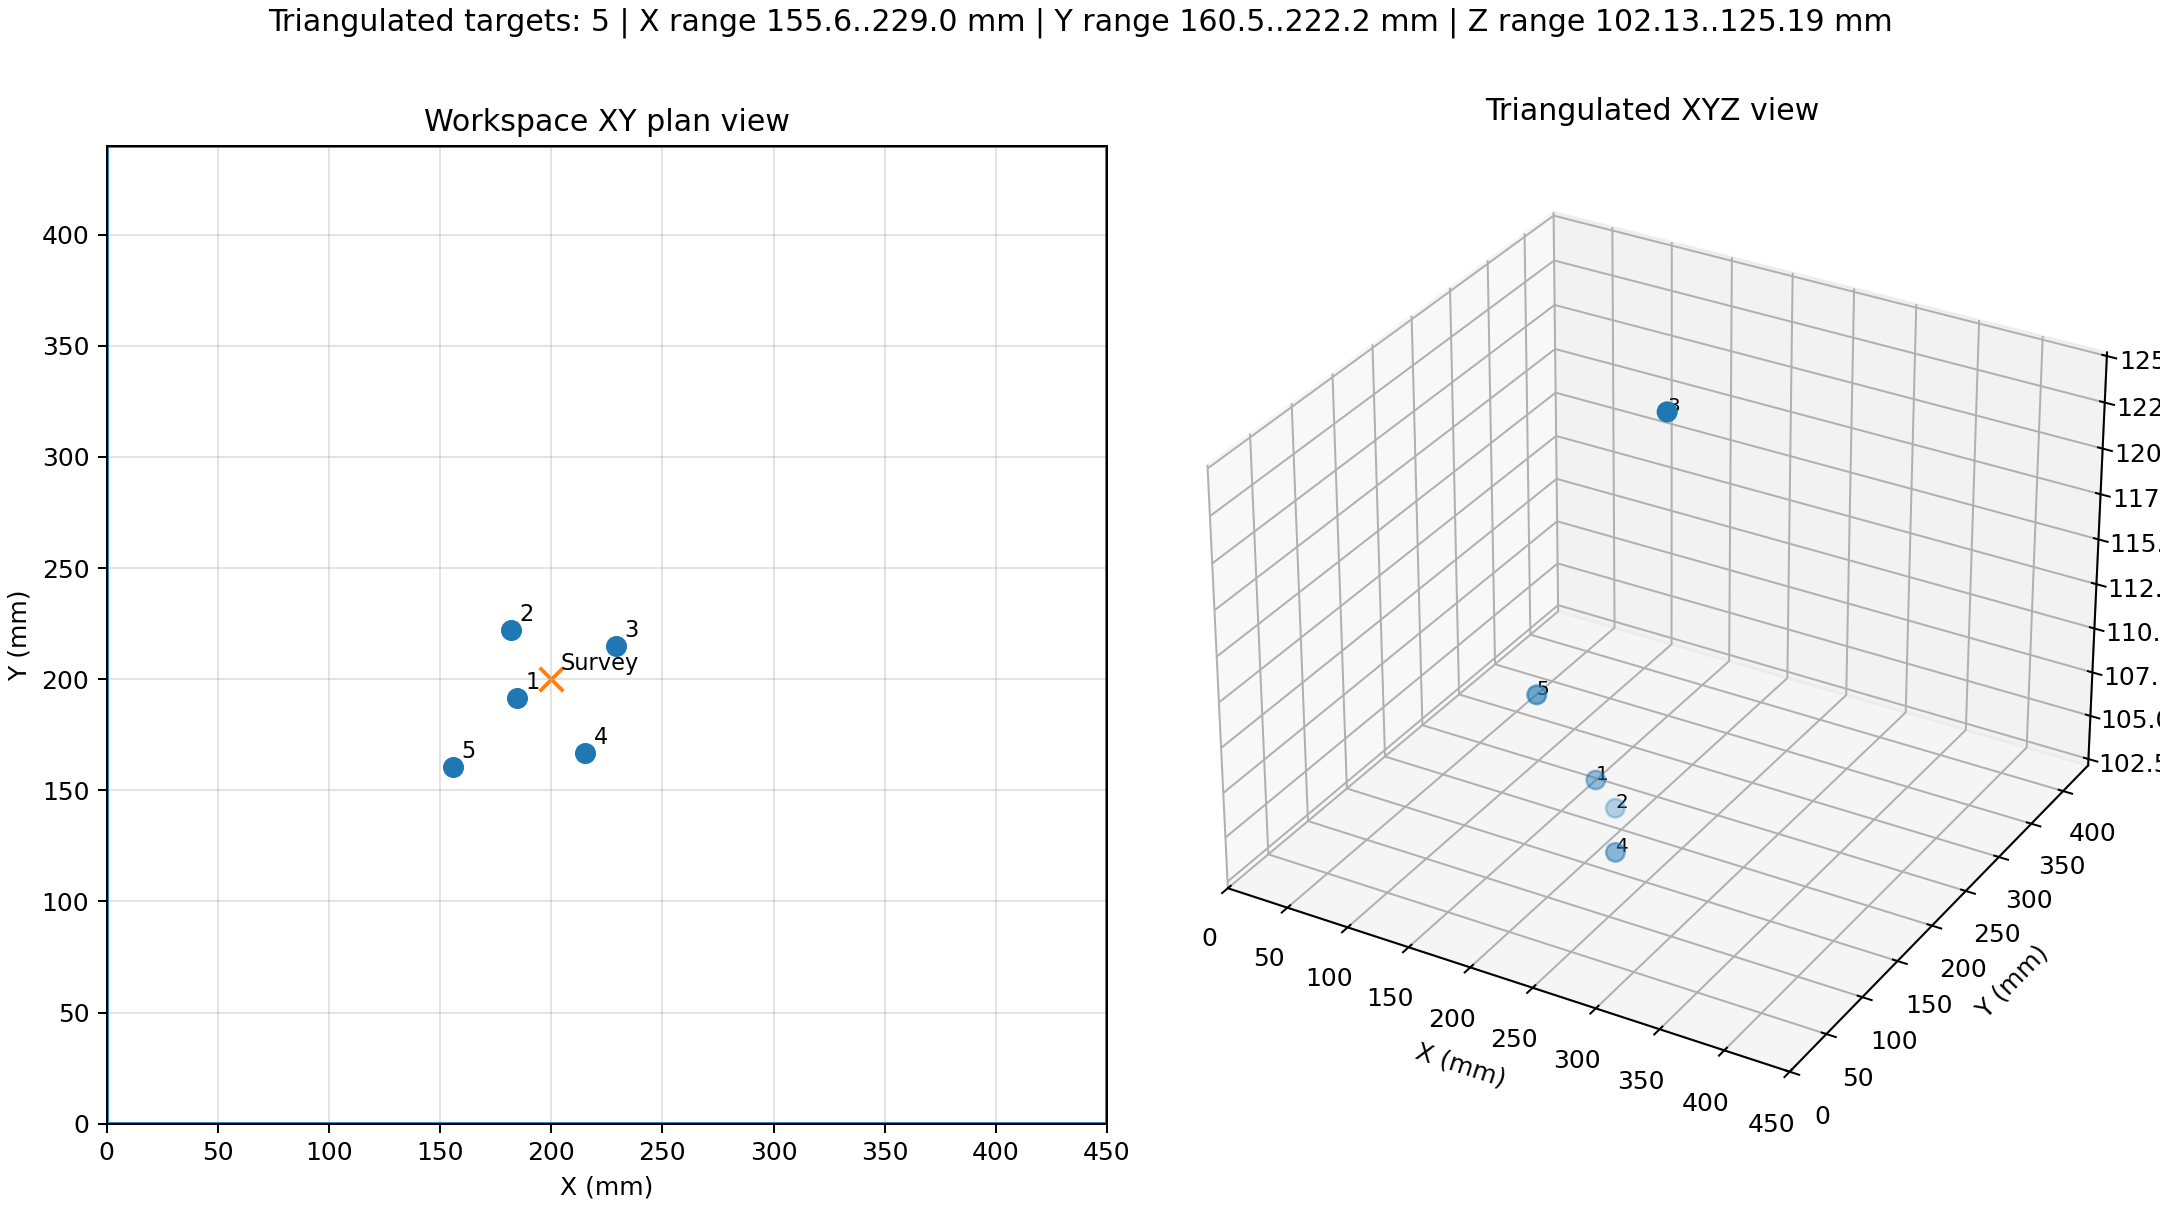
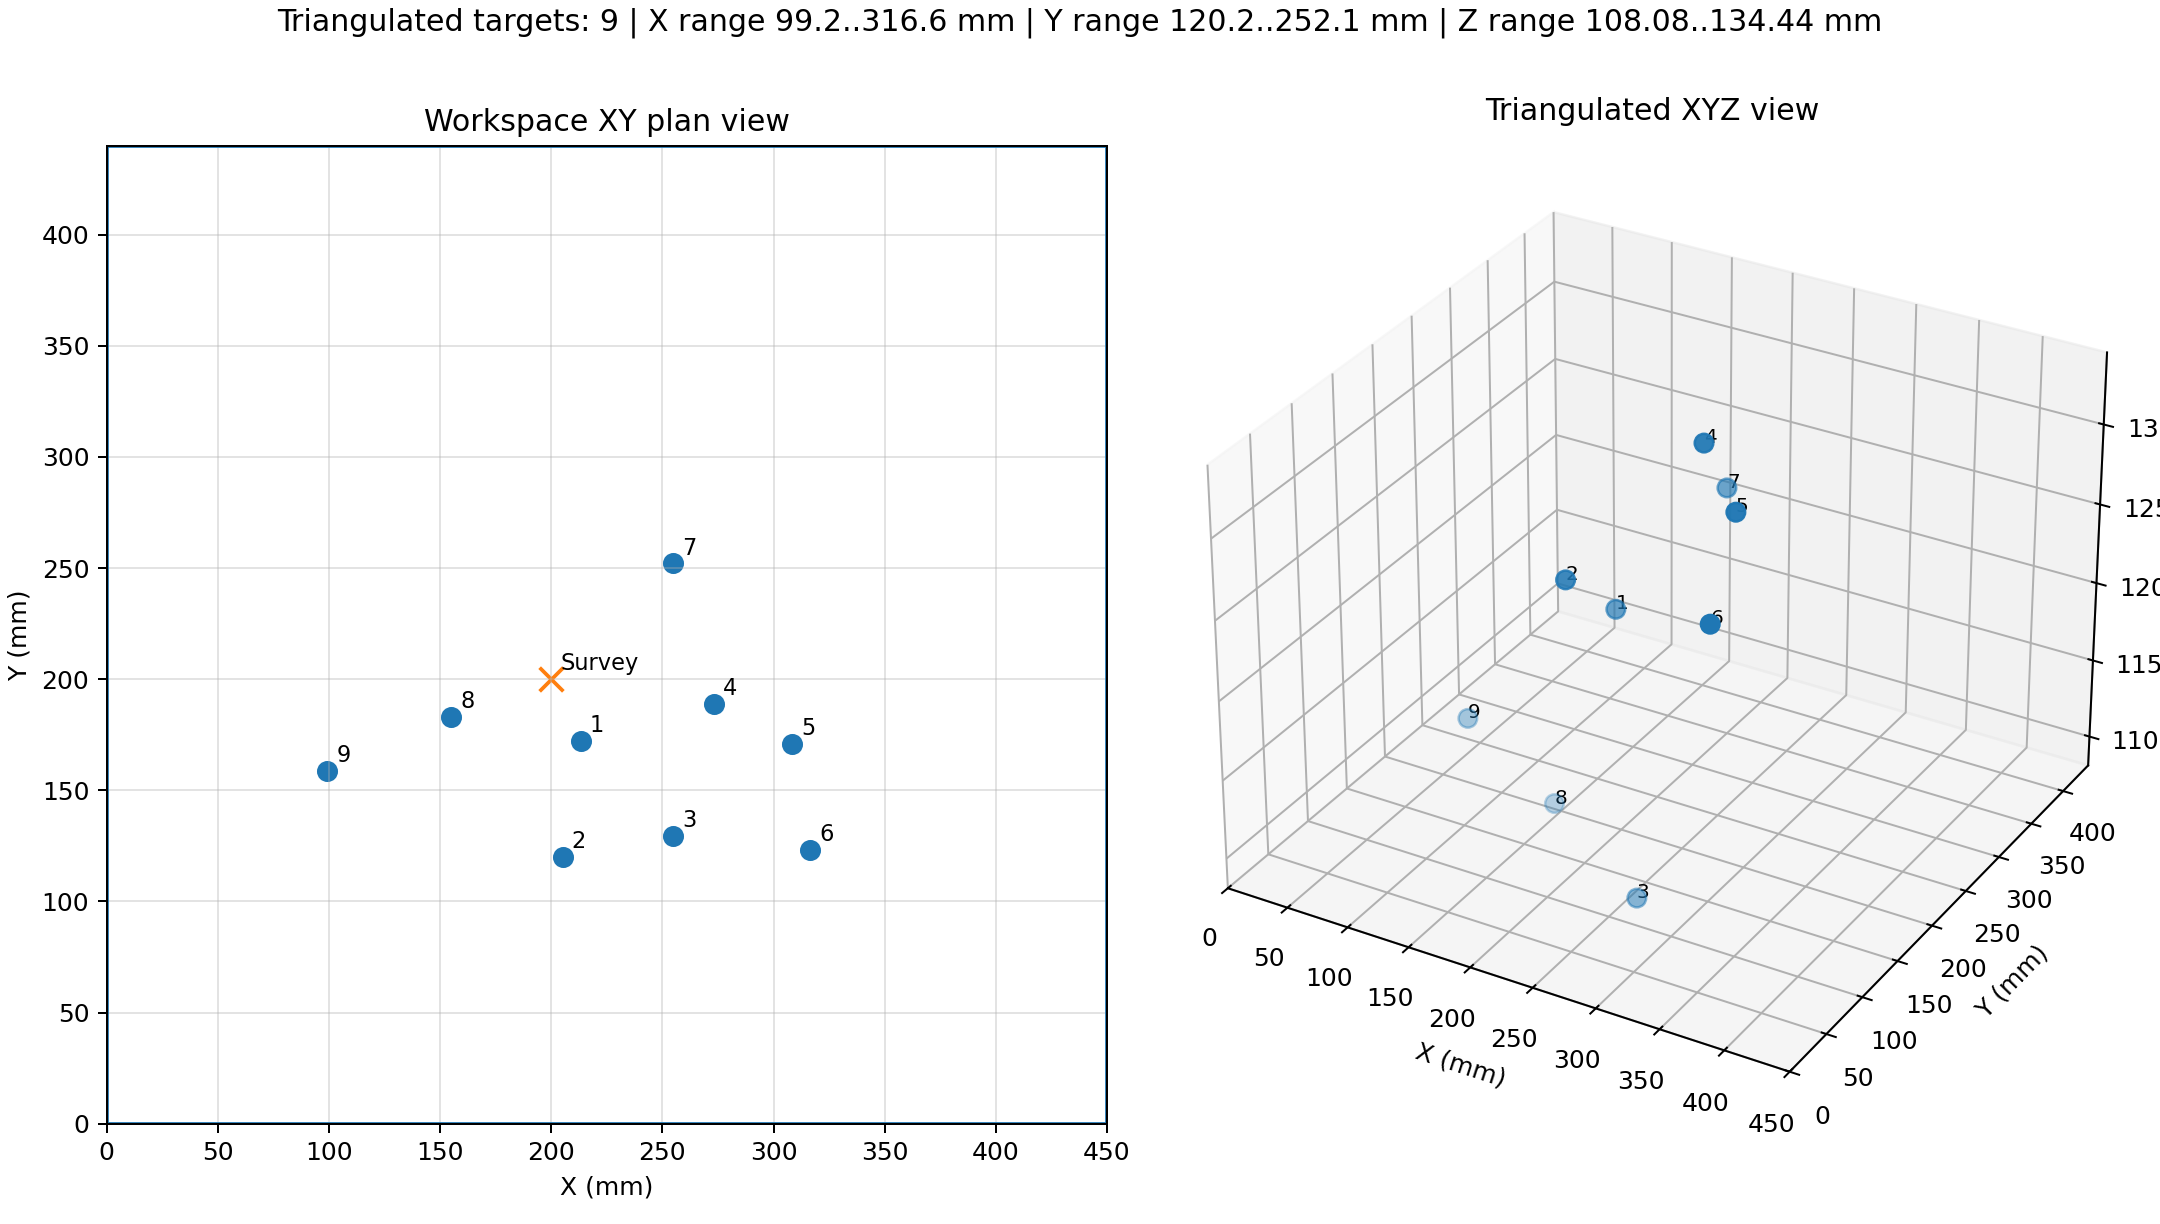
changed max time in fine align

diff --git a/Weeder_Workspace/control/fine_align.py b/Weeder_Workspace/control/fine_align.py
@@ -248,7 +248,7 @@ def fine_align_target(
     coarse_mover,
     planned_target,
     actual_hits,
-    max_time=6.0,
+    max_time=15.0,
     settle_frames=10,
     show_debug=HAS_DISPLAY,
 ):
